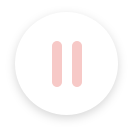
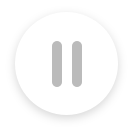
Added a nav bar and updated images

Changed region(s): [[0.5414, 0.3008, 0.6316, 0.6617], [0.391, 0.3008, 0.4812, 0.6617]]

diff --git a/index.html b/index.html
@@ -4,8 +4,22 @@
     <meta charset="UTF-8">
     <meta name="viewport" content="width=device-width, initial-scale=1.0">
     <title>Music Website</title>
+    <link rel="stylesheet" href="style.css">
 </head>
 <body>
+    <div class="container">
+        <div class="nav-bar">
+            <img src="img/logo.png" alt="logo" class="logo">
+            <ul>
+                <li><a href="#">HOME</a></li>
+                <li><a href="#">ABOUT</a></li>
+                <li><a href="#">SPECIFICATIONS</a></li>
+                <li><a href="#">PRODUCTS</a></li>
+                <li><a href="#">CONNECT</a></li>
+            </ul>
+        </div>
+        
+    </div>
     
 </body>
 </html>

diff --git a/style.css b/style.css
@@ -1,0 +1,40 @@
+* {
+    margin: 0;
+    padding: 0;
+    font-family: sans-serif;
+}
+
+.container {
+    height: 100vh;
+    width: 100%;
+    background-image: url(img/image_2.png);
+    background-size: cover;
+    background-position: center;
+    position: relative;
+}
+
+.nav-bar {
+    width: 88%;
+    margin: auto;
+    padding: 15px 0;
+    display: flex;
+    align-items: center;
+    justify-content: space-between;
+}
+
+.logo {
+    width: 140px;
+    cursor: pointer;
+}
+
+.nav-bar ul li {
+    list-style: none;
+    display: inline-block;
+    margin: 0 15px;
+}
+
+.nav-bar ul li a {
+    text-decoration: none;
+    color: #5f5f5f;
+    font-size: 15px;
+}
